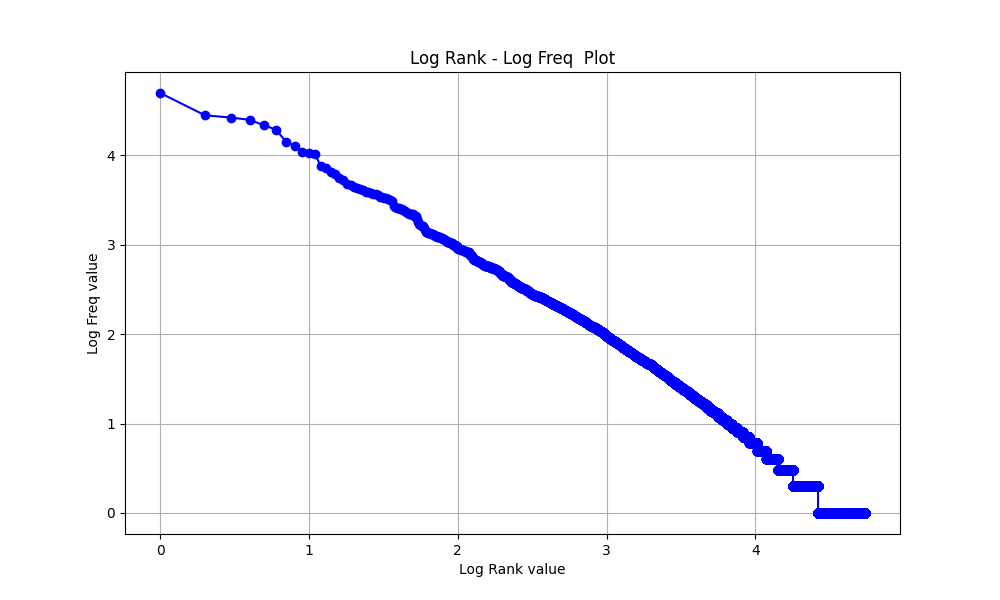
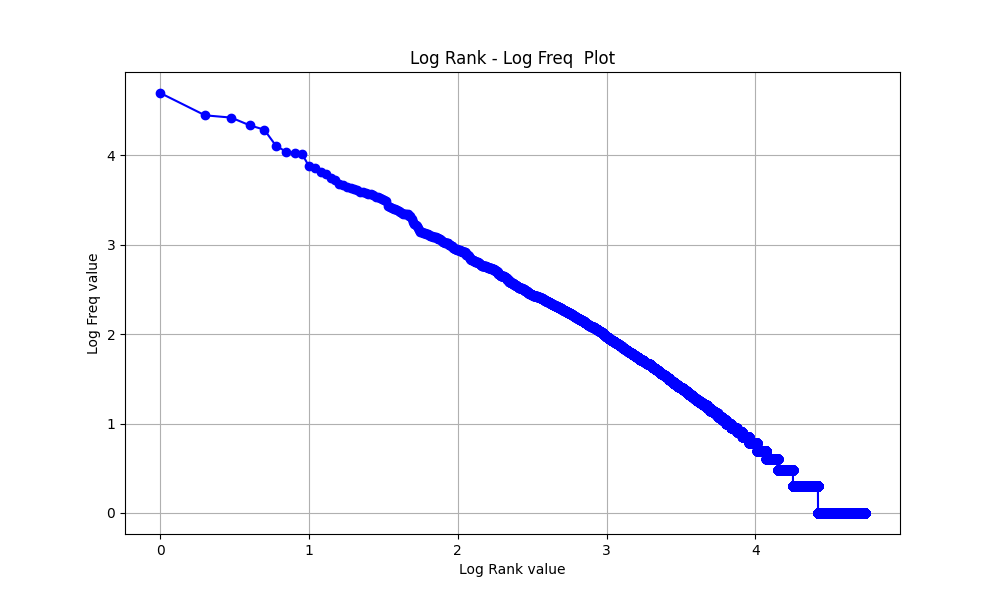
FINAL SUBMIT

diff --git a/algorithms/tf_idf.py b/algorithms/tf_idf.py
@@ -128,7 +128,7 @@ def plot_similar_documents(similar_docs, df, top_10_post_rating_avg):
     ax1 = plt.subplot(211)
     ax1.bar(wrapped_keys, similarities, color='blue')
     ax1.set_title(
-        f'Top 3 Similar posts for given post with high probability achieving: {round(top_10_post_rating_avg, 2)} rating',
+        f'Top 3 Similar posts for given post. Top 10 Average PostRating: {round(top_10_post_rating_avg, 2)}',
         fontsize=18)
     ax1.set_ylabel('Cosine Similarity', fontsize=16)
     ax1.set_ylim(0, 1)
@@ -263,25 +263,30 @@ def baseline_prediction(df, post_to_predict, numeric_cols):
     num_of_emojis_in_post = count_emojis(post_to_predict, config[EMOJIS_CONFIG_KEY])
     num_of_punctuation_in_post = count_punctuation(post_to_predict)
     num_of_line_breaks_in_post = count_line_breaks(post_to_predict)
+    num_words_normalized = count_words(post_to_predict) / 10
     given_post_numeric_values = np.array([num_of_emojis_in_post,
                                           num_of_punctuation_in_post,
-                                          num_of_line_breaks_in_post])
+                                          num_of_line_breaks_in_post,
+                                          num_words_normalized])
     distances = []
 
     for idx, row in df.iterrows():
         other_post_numeric_values = row[numeric_cols].values
+        other_post_numeric_values[-1] /= 10
         norm2_distance = np.linalg.norm(given_post_numeric_values - other_post_numeric_values)
         distances.append((idx, norm2_distance))
 
     # Sort by the smallest distances (most similar)
     distances = sorted(distances, key=lambda x: x[1])
 
-    # Get the top 3 closest documents
-    top_3_similar_docs = distances[1:4]
+    # Get the top 3, 10 closest documents
+    top_3_similar_docs = distances[2:5]
+    top_10_similar_docs = distances[2:12]
 
     # Calculate the average PostRating for the top 3 similar documents
     top_3_post_ratings = [df.loc[idx, 'PostRating'] for idx, _ in top_3_similar_docs]
-    top_3_post_rating_avg = np.mean(top_3_post_ratings)
+    top_10_post_ratings = [df.loc[idx, 'PostRating'] for idx, _ in top_10_similar_docs]
+    top_10_post_rating_avg = np.mean(top_10_post_ratings)
 
     # Prepare data for plotting
     top_3_indices = [idx for idx, _ in top_3_similar_docs]
@@ -304,7 +309,7 @@ def baseline_prediction(df, post_to_predict, numeric_cols):
     # Second subplot: PostRating for top 3 similar posts
     ax2 = plt.subplot(212)
     ax2.bar(top_3_titles, top_3_post_ratings, color='orange')
-    ax2.set_title(f'PostRatings of Top 3 Similar Posts with average of: {top_3_post_rating_avg}', fontsize=18)
+    ax2.set_title(f'Top 3 Similar Posts PostRatings. Top 10 Average PostRating: {top_10_post_rating_avg}', fontsize=18)
     ax2.set_ylabel('PostRating', fontsize=16)
     ax2.set_ylim(0, max(top_3_post_ratings) * 1.2)
 
@@ -322,4 +327,4 @@ def baseline_prediction(df, post_to_predict, numeric_cols):
 
     plt.show()
 
-    return top_3_similar_docs, top_3_post_rating_avg
+    return top_3_similar_docs, top_10_post_rating_avg

diff --git a/main_executer.py b/main_executer.py
@@ -30,7 +30,7 @@ def k_means_execute():
 
 
 def nlp_execute(documents):
-    tokens = [word.lower() for doc in documents for word in doc.split()]
+    tokens = [word.lower() for doc in documents for word in doc.split() if len(word.lower()) > 1]
     create_log_info_and_plot(tokens)
     create_word_cloud(tokens)
 
@@ -52,7 +52,7 @@ def tf_idf_execute(documents, post_to_predict=None):
     tf_idf_dict = generate_tf_idf_values(documents, vocab_list, idf_dict)
 
     if post_to_predict:
-        similar_docs = get_similar_documents(tf_idf_dict, post_to_predict, top_n=3)
+        similar_docs = get_similar_documents(tf_idf_dict, post_to_predict, top_n=10)
         top_10_post_rating_avg = find_top_10_post_rating_avg(similar_docs)
 
         plot_similar_documents(similar_docs[:3], df, top_10_post_rating_avg)
@@ -60,7 +60,8 @@ def tf_idf_execute(documents, post_to_predict=None):
 
         baseline_cols = [PostFields.NUM_EMOJIS.value,
                          PostFields.NUM_PUNCTUATION.value,
-                         PostFields.NUM_LINE_BREAKS.value]
+                         PostFields.NUM_LINE_BREAKS.value,
+                         PostFields.NUM_WORDS.value]
         baseline_prediction(df, post_to_predict, baseline_cols)
 
     return tf_idf_dict

diff --git a/README.md b/README.md
@@ -91,8 +91,11 @@ We used several algorithms and techniques we learned throughout the semester, su
   - **Log-Rank Log-Frequency Analysis:** We conducted a log-log analysis of word occurrences to explore the distribution of word frequencies. This method helps in understanding the relationship between word rank and frequency, providing insights into which words are commonly used in LinkedIn posts versus those that are barely used.
   
 
-- **TF-IDF Analysis:** We use this method to predict for a given post the top similarities posts that mostly similar to the given post. the similarities are computed with Cosine distance metric from each pair of posts and their correspoding TF-IDF values conducted from a unique set of words from all documents we crawled.
+- **TF-IDF Analysis:** We use this method to predict for a given post the top similarities posts that mostly similar to the given post. the similarities are computed with Cosine distance metric from each pair of posts and their corresponding TF-IDF values conducted from a unique set of words from all documents we crawled.
 Then after finding the top similar posts, we compute their PostRating average as a prediction to how well the given post will do in the real LinkedIn platform.
+- **Baseline Analysis:** We use a baseline metric to compare the results for our prediction to another baseline prediction.
+The baseline metric is norm2 distance between normalized samples, we compute for the given post the same flow mentioned as the TF-IDF model flow,
+to find the top doc similarities and their average PostRating values.
 
 
 - **Correlation Analysis:** Find for each feature how does he correlate with the Virality value conducted from all posts together.
